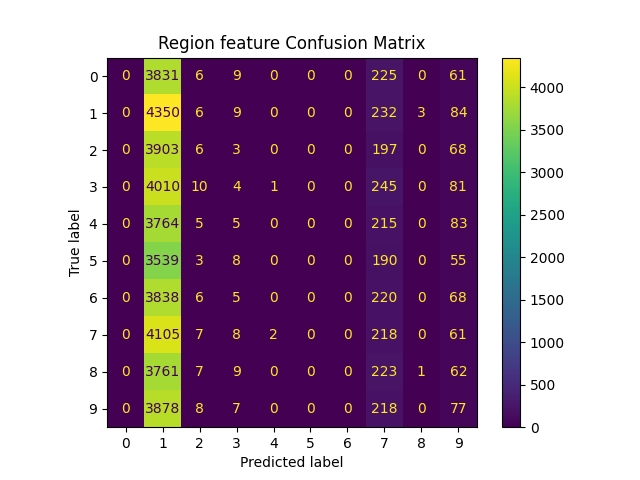
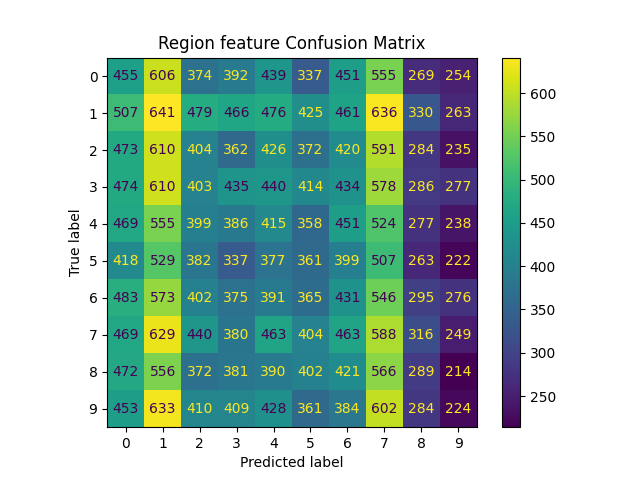
Corrected some issues on labeling
Still pending if that's the correct way to go

diff --git a/mnist.py b/mnist.py
@@ -412,6 +412,7 @@ class MNIST:
         """
         data = self.get_mnist_data()
         all_means = []
+        all_labels = []
         ink_regions = []
         total_ink = []
         for i in range(10):
@@ -434,8 +435,11 @@ class MNIST:
                 total_ink = [np.sum(i) for i in inks]
 
                 all_means.append(means)
+                # Create a parallel list of labels of each image
+                all_labels.append(j[0])
+
             ink_regions.append(total_ink)
-        return all_means, ink_regions
+        return all_means,all_labels, ink_regions
 
     def plot_region_feature_prediction(self):
         """
@@ -452,10 +456,10 @@ class MNIST:
         -------
         None
         """
-        regions, avg_reg = self.extract_region_data()
+        regions,labels, avg_reg = self.extract_region_data()
         regions_norm = skp.scale(regions)
         x = regions_norm
-        y = self.labels
+        y = labels
 
         #print(np.array(x).shape, np.array(y).shape)
 
@@ -481,9 +485,9 @@ if __name__ == '__main__':
     # mnist.exportStatisticalAnalysis()
     # mnist.printUnusedPixels()
     # mnist.plotHeatmapUnusedPixels()
-    # mnist.displayImage(0)
+    # mnist.display_image(0)
     # mnist.plotClassDistribution()
     # mnist.plotClassPercentage()
-    #mnist.plot_ink_used_prediction()
+    # mnist.plot_ink_used_prediction()
     mnist.plot_region_feature_prediction()
     # mnist.plotInkUsedStatistics()
